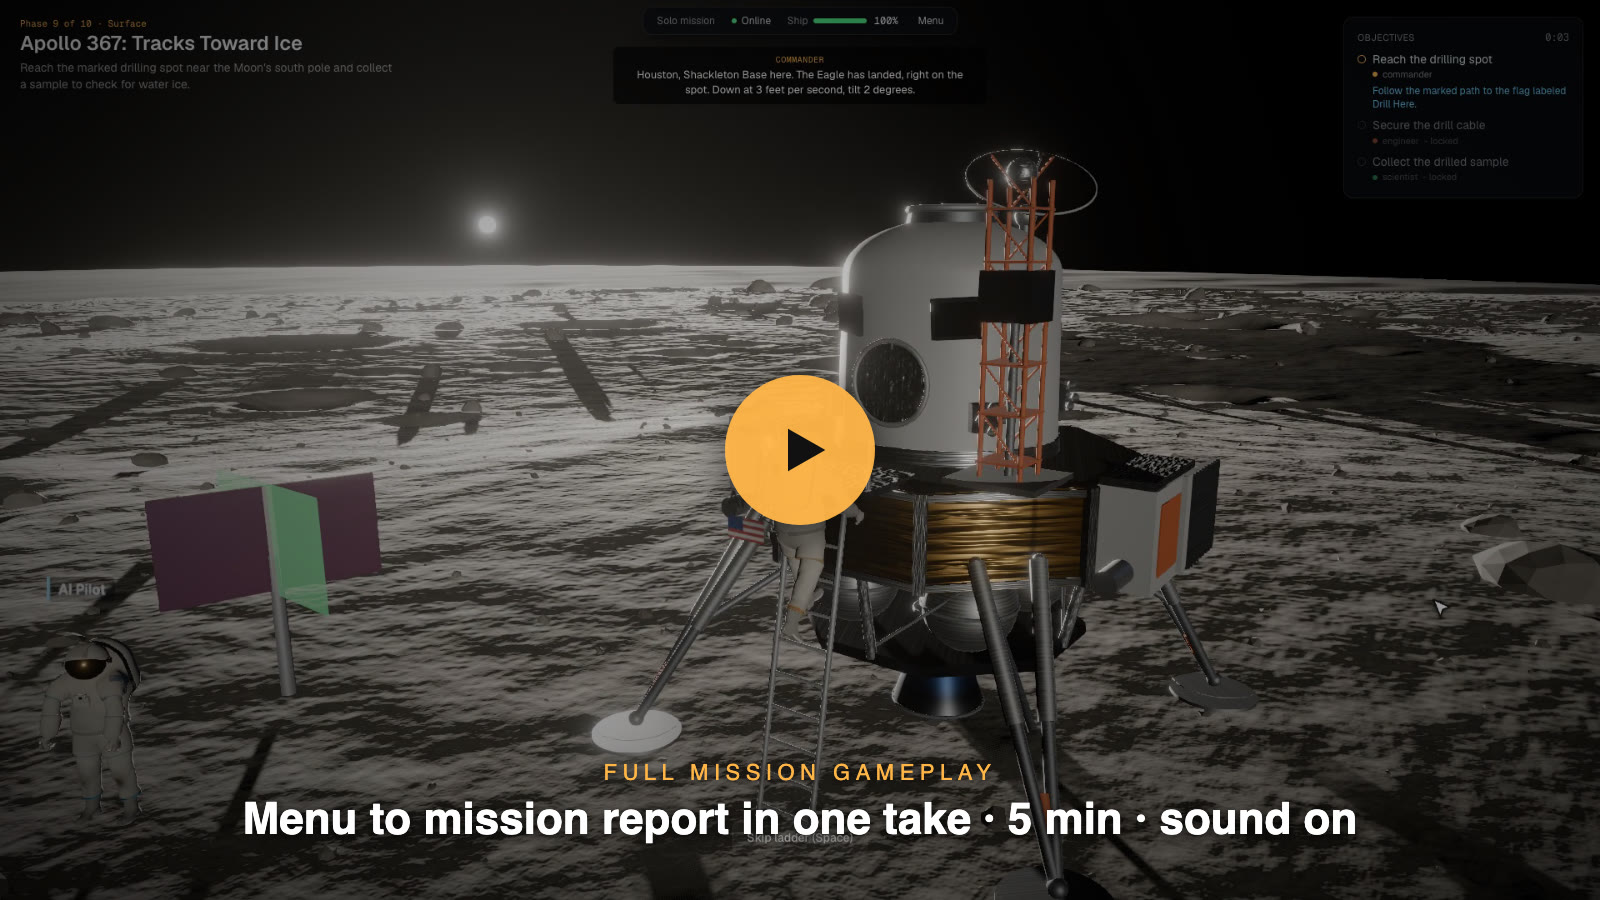
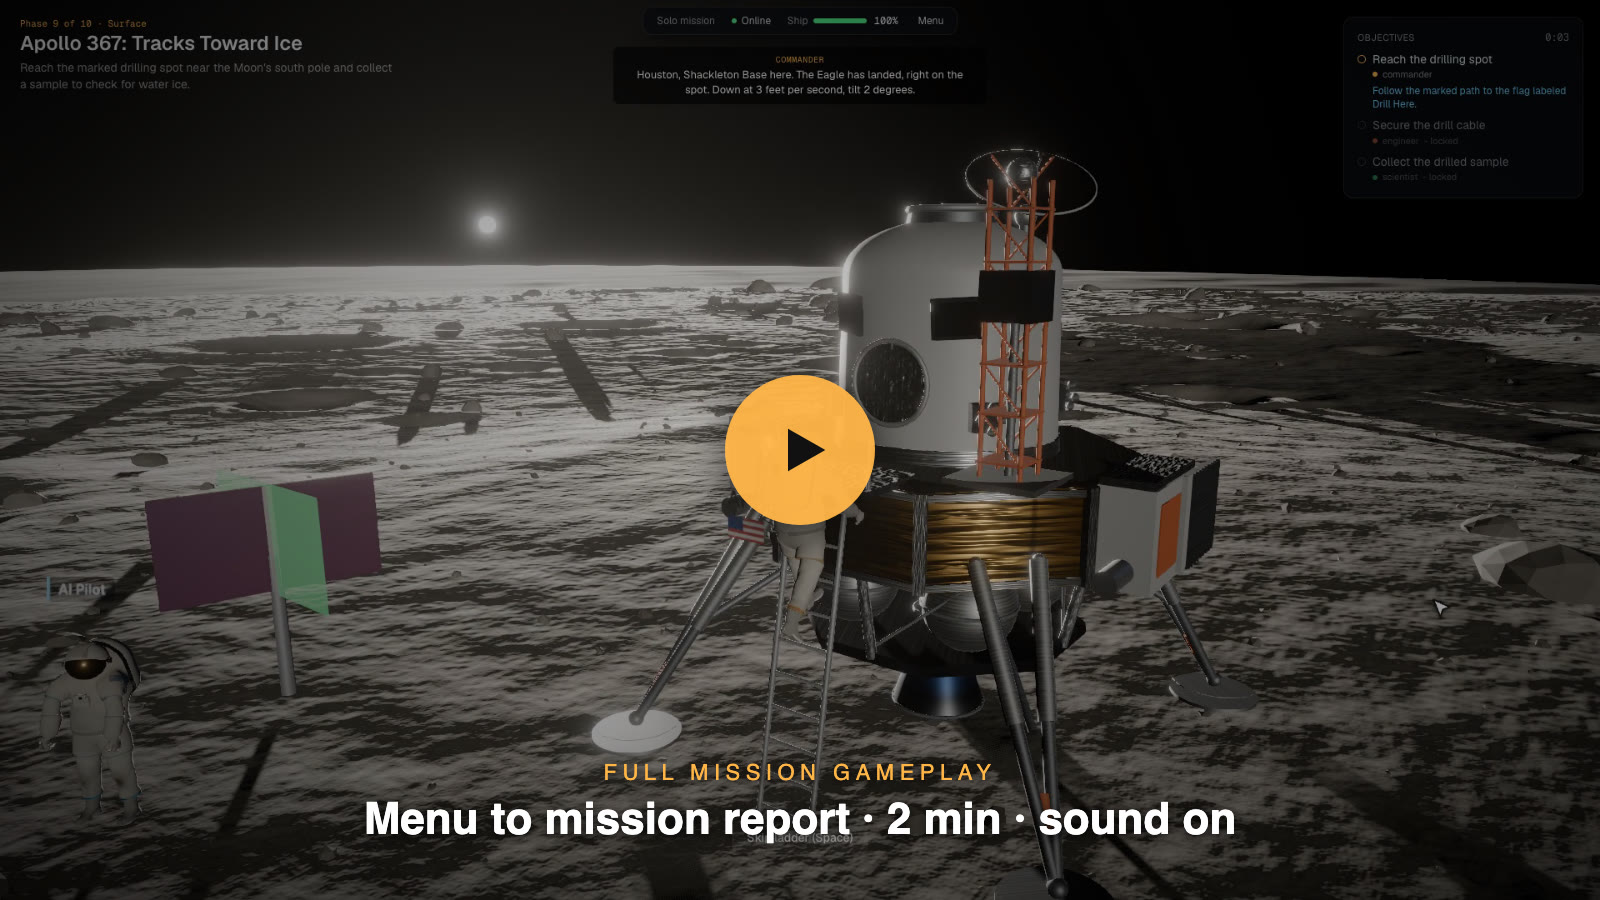
Gameplay video: 2-minute cut (cut list script), README and thumbnail updated for it

Changed region(s): [[0.1562, 0.8711, 0.8438, 0.9333]]

diff --git a/web/scripts/gameplay-cut.py b/web/scripts/gameplay-cut.py
@@ -1,0 +1,25 @@
+# Cuts the full recording (scripts/gameplay-video.mjs) to about two minutes: kept stretches with their speed,
+# tempo-matched audio, a speed tag on sped-up parts. Times are for one particular take: re-check them after re-recording.
+import subprocess
+SRC="/tmp/gameplay/gameplay.mp4"
+# (start, end, speed)
+EDL=[(0,3.2,1.5),(5.5,10.5,1.5),(11,43,3.5),(44,55,2.5),(58,62,2),(74,77,1.5),(78,93,3),
+     (96,118,1.6),(120,137,2.5),(142,146,1.2),(146,154,2),(167,176,2.5),(176,193,2),
+     (196,226,3),(226,250,2),(250,257,1.2),(259,272,1.5),(272,284,2),(290,298,1.3)]
+def atempo(s):
+    f=[]
+    while s>2.0: f.append("atempo=2.0"); s/=2.0
+    f.append(f"atempo={s:.4f}"); return ",".join(f)
+args=["ffmpeg","-loglevel","error","-y"]
+fc=[]
+for i,(a,b,s) in enumerate(EDL):
+    args+=["-ss",str(a),"-t",str(b-a),"-i",SRC]
+    d=(b-a)/s
+    tag = f",drawtext=text='{s:g}x speed':x=w-tw-28:y=h-th-28:fontsize=26:fontcolor=white@0.9:box=1:boxcolor=black@0.55:boxborderw=10" if s>1.05 else ""
+    fc.append(f"[{i}:v]setpts=(PTS-STARTPTS)/{s},fps=60{tag}[v{i}]")
+    fc.append(f"[{i}:a]asetpts=PTS-STARTPTS,{atempo(s)},afade=t=in:d=0.06,afade=t=out:st={max(0,d-0.08):.3f}:d=0.08[a{i}]")
+n=len(EDL)
+fc.append("".join(f"[v{i}][a{i}]" for i in range(n))+f"concat=n={n}:v=1:a=1[v][a]")
+args+=["-filter_complex",";".join(fc),"-map","[v]","-map","[a]","-c:v","libx264","-preset","slow","-crf","18","-pix_fmt","yuv420p","-c:a","aac","-b:a","192k","-movflags","+faststart","/tmp/gameplay/gameplay-2min.mp4"]
+print("planned", round(sum((b-a)/s for a,b,s in EDL),1), "s")
+subprocess.run(args,check=True)

diff --git a/README.md b/README.md
@@ -20,8 +20,8 @@ Solo or with up to four friends.
 
 ## Gameplay video
 
-A full solo mission recorded in the game, menu to mission report in one take, with the game's own music, radio and sound effects.
-Every frame is the real game screen with its HUD; the mouse pointer, clicks and pressed keys are drawn on top so you can follow what the player does.
+A full solo mission recorded in the game, from the menu to the mission report, cut to two minutes with the game's own music, radio and sound effects.
+Every frame is the real game screen with its HUD; long stretches are sped up (marked on screen), and the mouse pointer, clicks and pressed keys are drawn on top so you can follow what the player does.
 
 <div align="center">
 
@@ -136,6 +136,7 @@ cd web && node scripts/gameplay-video.mjs   # API and web dev server running; wr
 ```
 
 The script plays a full solo mission through the real UI at high quality, records the screen and the game's audio, and draws the pointer, clicks and keys (`scripts/input-overlay.js`, `scripts/audio-tap.js`). `--from=<phase>` records just part of the run.
+`python3 scripts/gameplay-cut.py` cuts that recording to two minutes; its cut list holds the start, end and speed of every kept stretch.
 
 <details>
 <summary><b>For contributors: layout, contracts and performance rules</b></summary>
